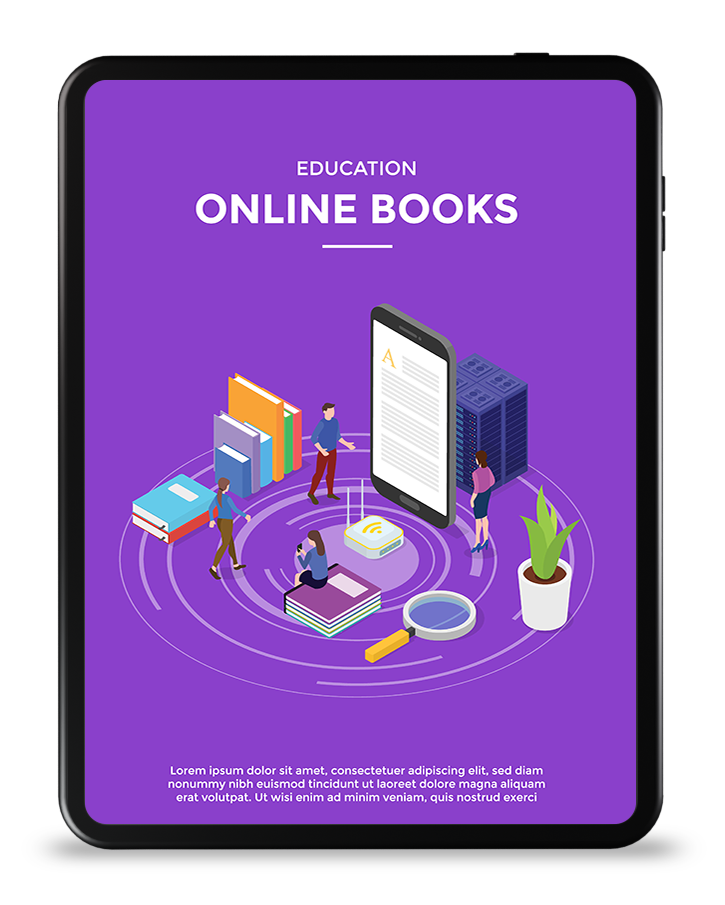
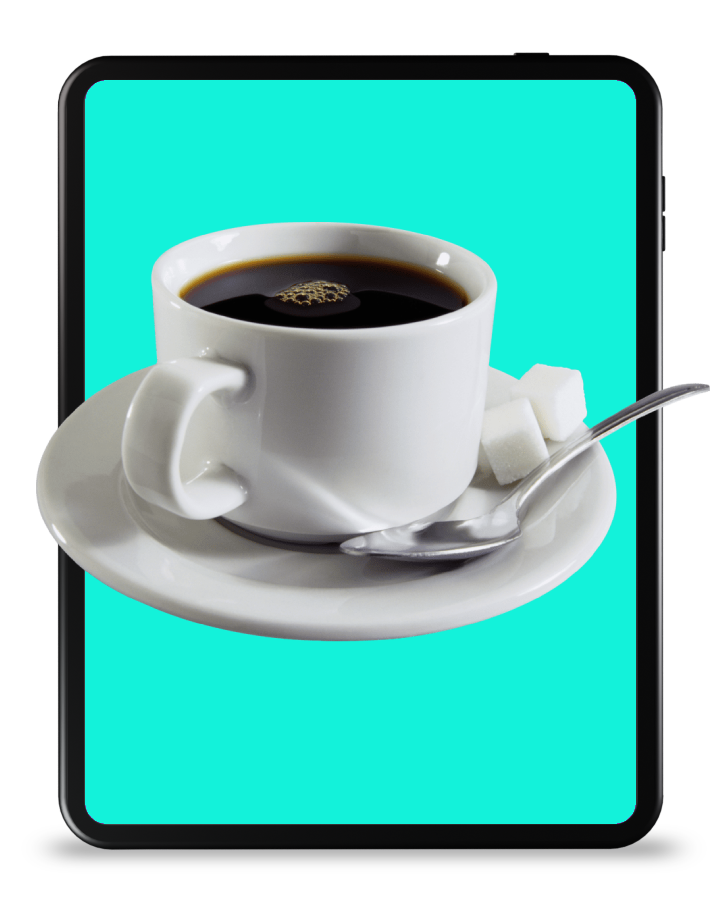
Add files via upload

diff --git a/index.html b/index.html
@@ -7,7 +7,7 @@
         <meta name="description" content="">
         <meta name="author" content="">
 
-        <title>ebook landing page template</title>
+        <title>Café do Zé - Cafeteria em Botafogo</title>
 
         <!-- CSS FILES -->        
         <link rel="preconnect" href="https://fonts.googleapis.com">
@@ -38,7 +38,7 @@ https://templatemo.com/tm-588-ebook-landing
                 <div class="container">
                     <a class="navbar-brand" href="index.html">
                         <i class="navbar-brand-icon bi-book me-2"></i>
-                        <span>ebook</span>
+                        <span>Café do Zé</span>
                     </a>
 
                     <div class="d-lg-none ms-auto me-3">
@@ -92,9 +92,9 @@ https://templatemo.com/tm-588-ebook-landing
 
                         <div class="col-lg-6 col-12 mb-5 pb-5 pb-lg-0 mb-lg-0">
 
-                            <h6>Introducing ebook</h6>
+                            <h6>Inauguração em breve!</h6>
 
-                            <h1 class="text-white mb-4">ebook landing page for professionals</h1>
+                            <h1 class="text-white mb-4">Experimente a melhor cafeteria de Botafogo.</h1>
 
                             <a href="#section_2" class="btn custom-btn smoothscroll me-3">Discover More</a>
 

diff --git a/css/templatemo-ebook-landing.css b/css/templatemo-ebook-landing.css
@@ -14,7 +14,7 @@ https://templatemo.com/tm-588-ebook-landing
   --primary-color:                #E76F51;
   --secondary-color:              #E9C46A;
   --section-bg-color:             #f0f8ff;
-  --custom-btn-bg-color:          #F4A261;
+  --custom-btn-bg-color:          #61f4e8;
   --custom-btn-bg-hover-color:    #E76F51;
   --dark-color:                   #000000;
   --p-color:                      #717275;
